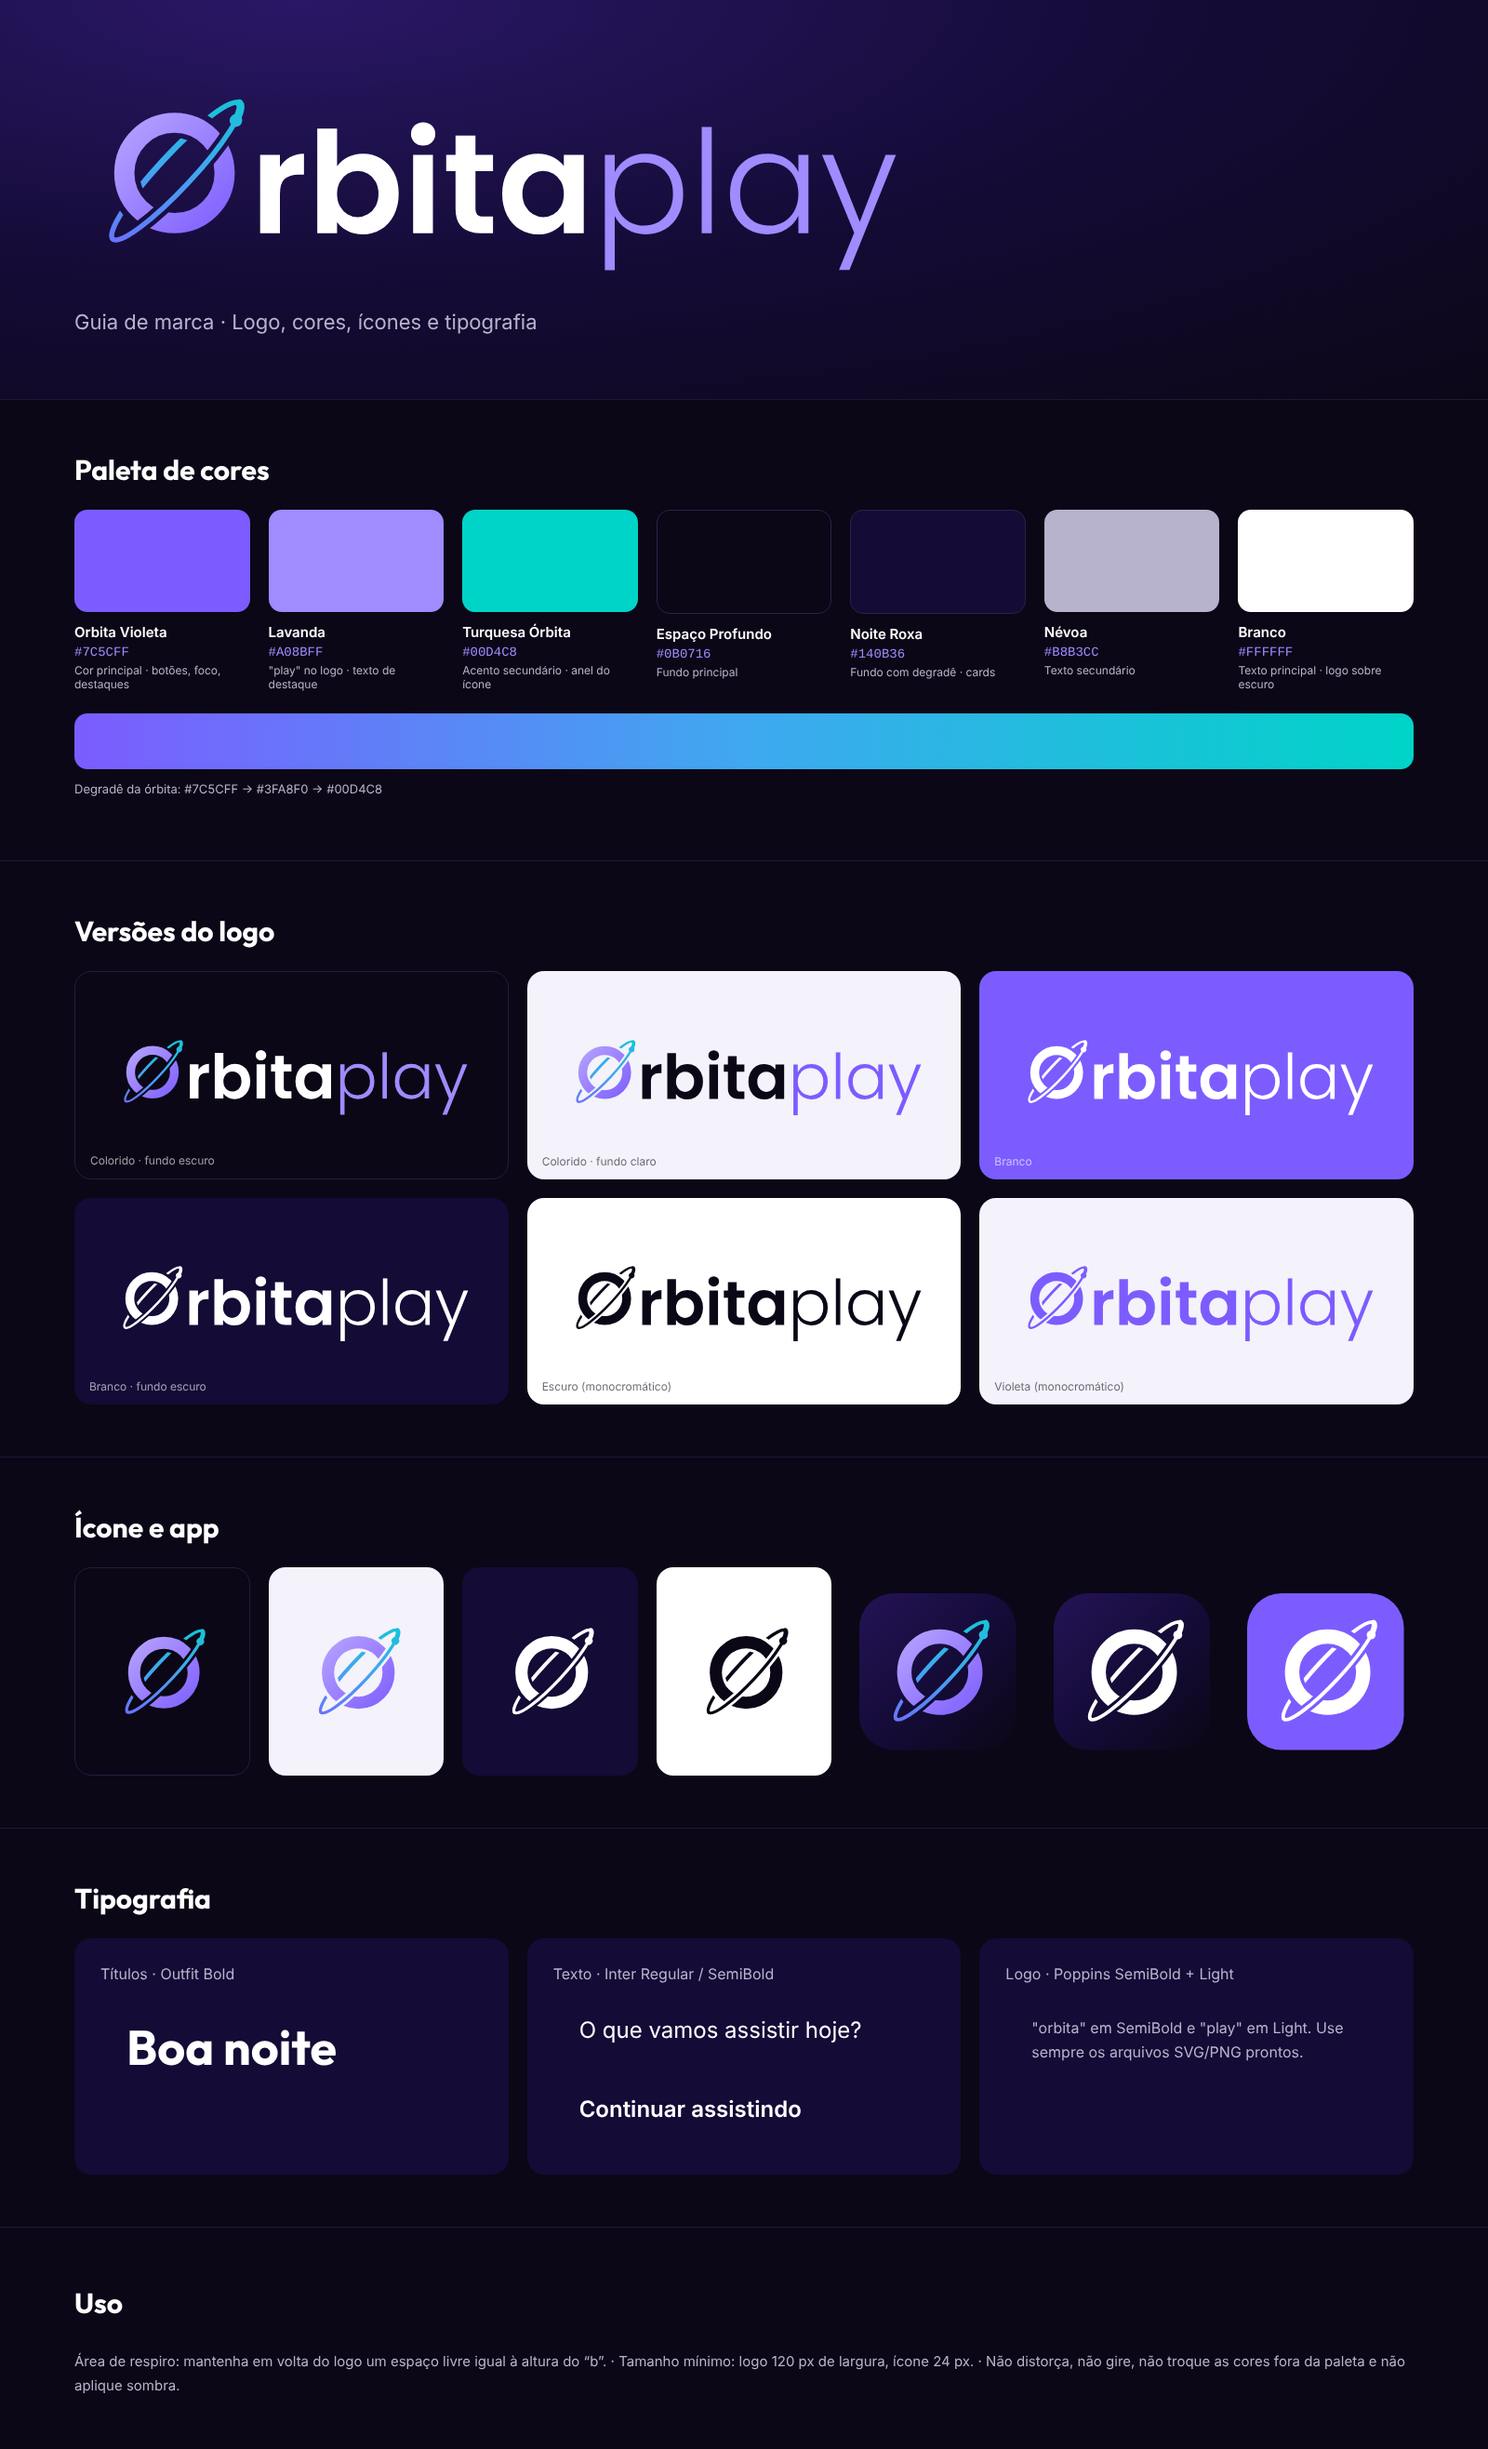
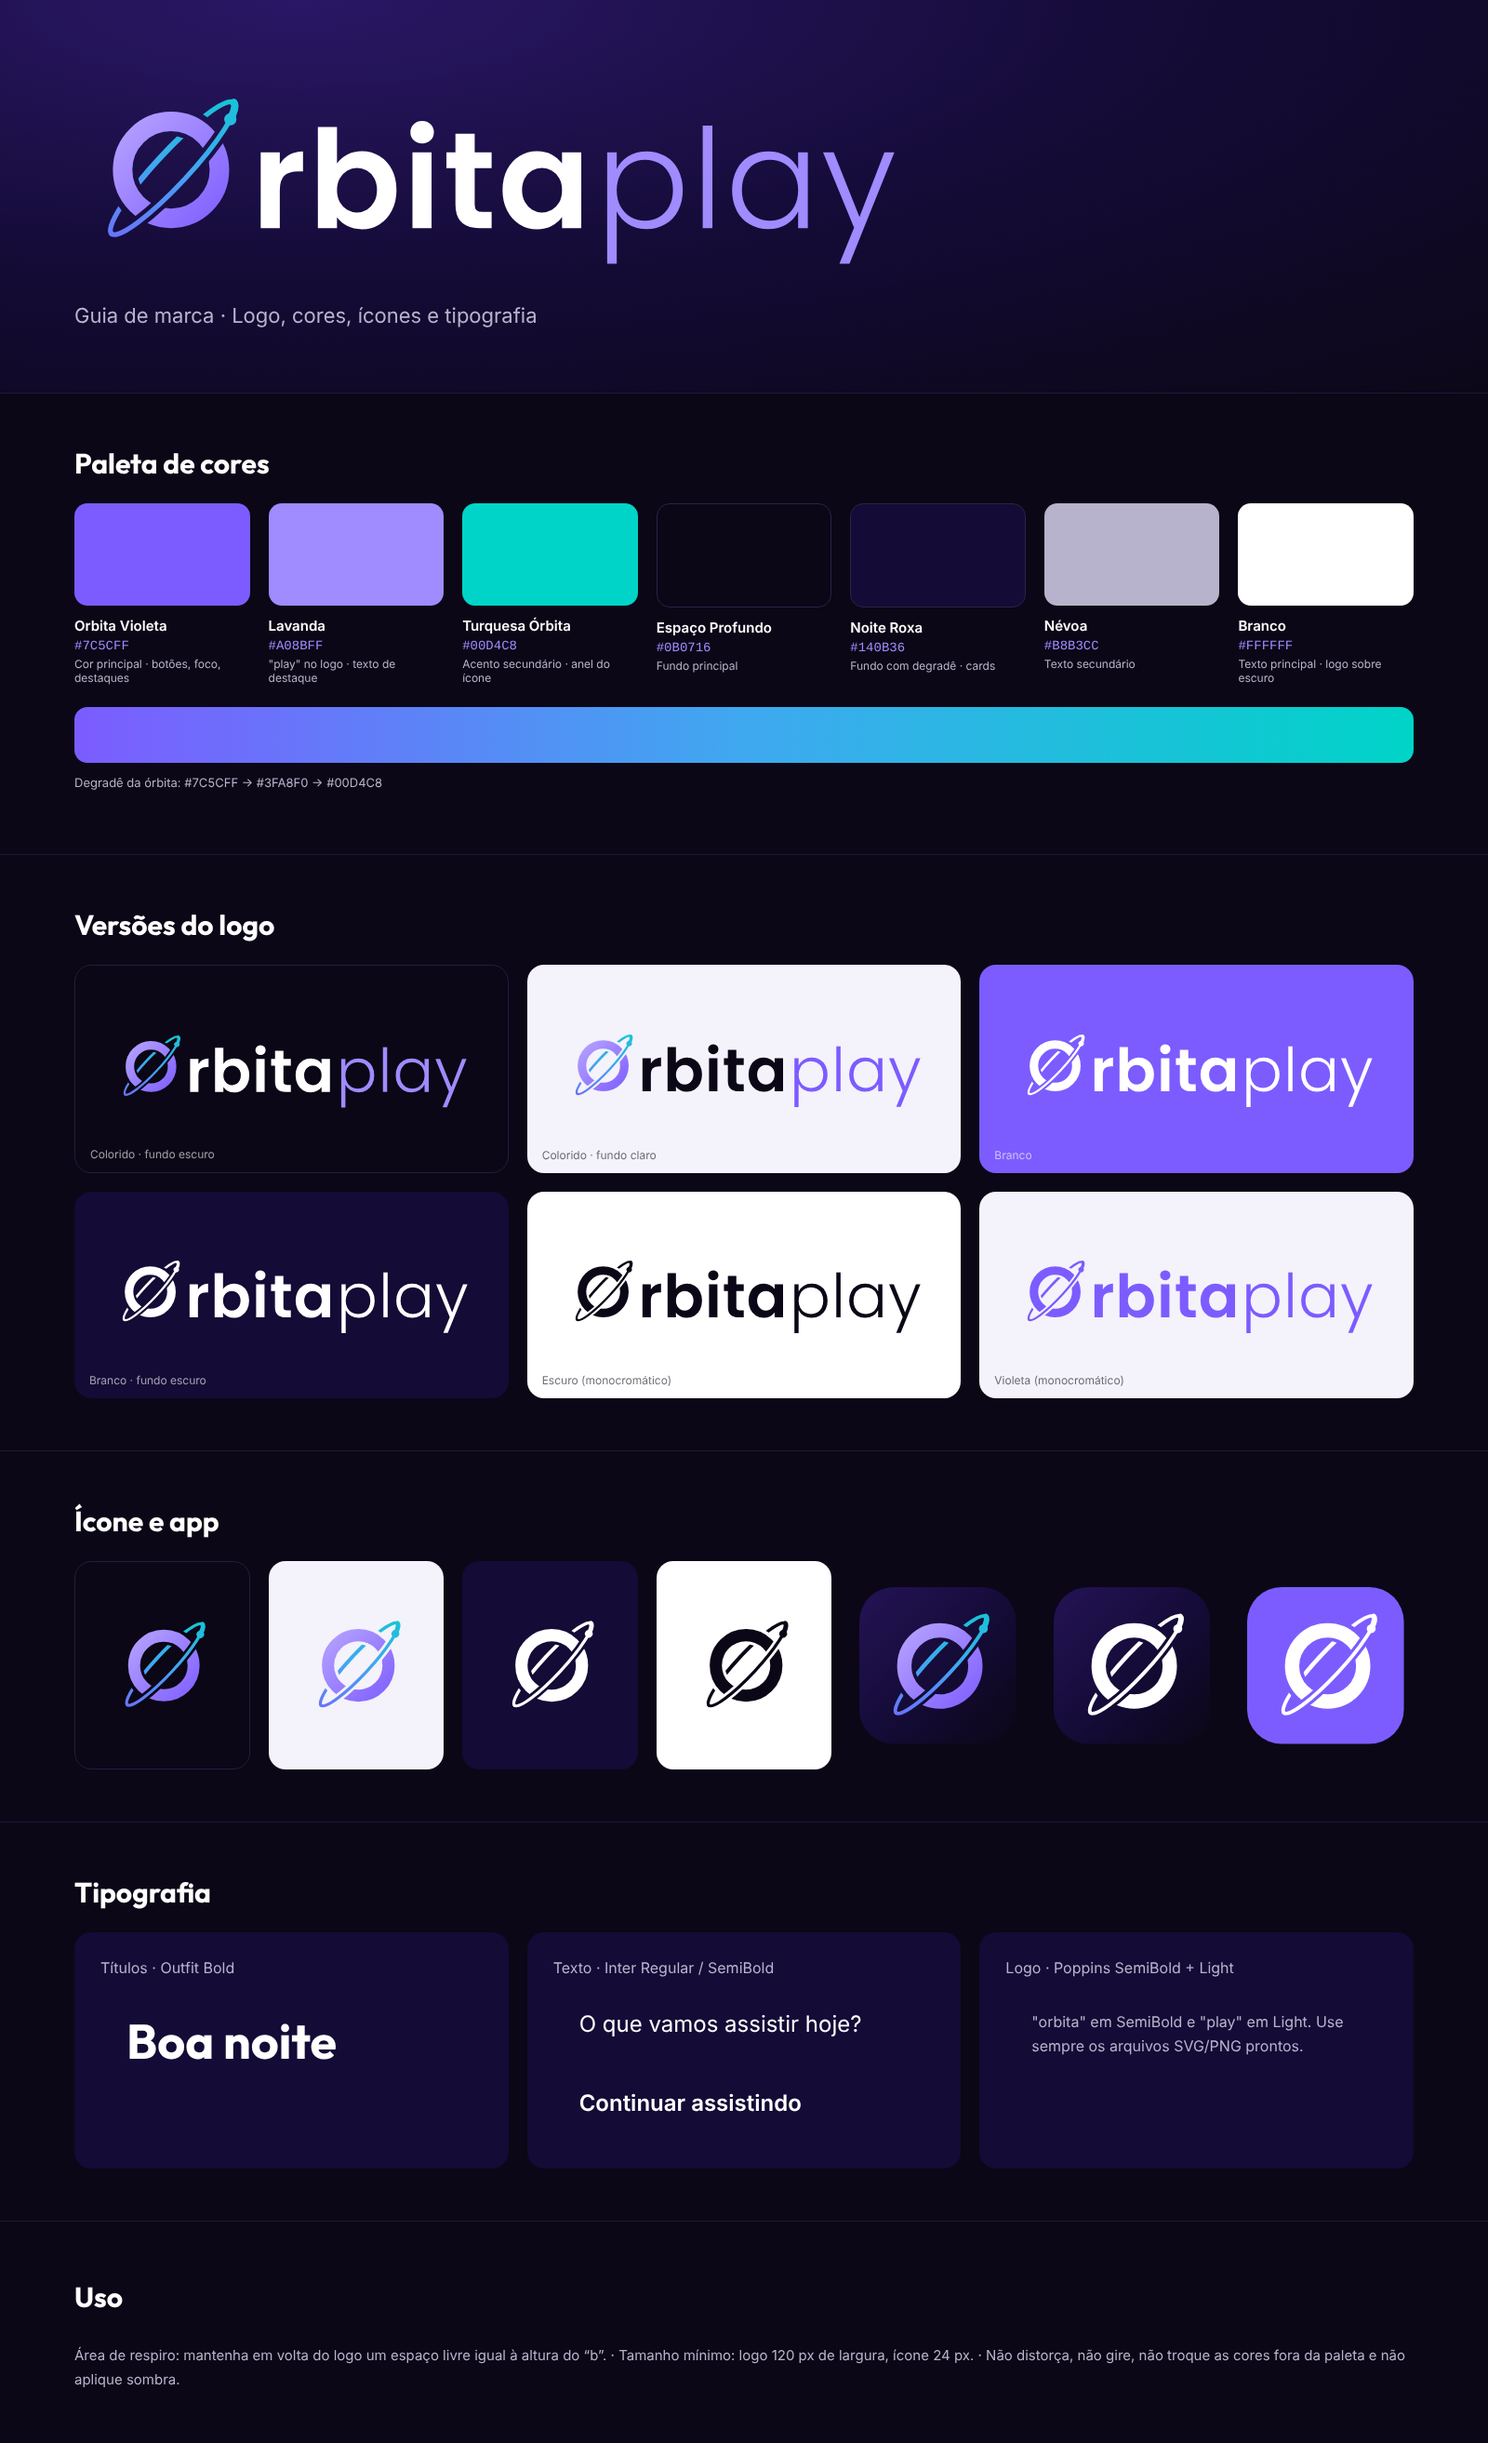
Loosen wordmark spacing and make 'play' violet in white-violet variant
Claude-Session: https://claude.ai/code/session_01X3VDEMUgQ3J3eXyFuzx6oD

diff --git a/docs/branding/source/brand.py b/docs/branding/source/brand.py
@@ -18,9 +18,10 @@ from fontTools.pens.transformPen import TransformPen
 from fontTools.pens.boundsPen import BoundsPen
 FD=os.path.join(os.path.dirname(os.path.abspath(__file__)),'fonts')
 FONT1=os.environ.get('FONT1','Poppins-SemiBold.ttf'); FONT2=os.environ.get('FONT2','Poppins-Light.ttf')
-def font_word(H, parts=(('rbita',FONT1),('play',FONT2)), track=0.0, start=1.13):
+def font_word(H, parts=(('rbita',FONT1),('play',FONT2)), track=0.015, start=1.19):
     x=H*start; letters=[]
-    for txt,fn in parts:
+    for pi,(txt,fn) in enumerate(parts):
+        if pi: x+=H*0.03
         f=TTFont(os.path.join(FD,fn)); gs=f.getGlyphSet(); cm=f.getBestCmap(); upm=f['head'].unitsPerEm
         bp=BoundsPen(gs); gs[cm[ord('x')]].draw(bp); k=H*0.65/bp.bounds[3]
         for ch in txt:
@@ -67,7 +68,7 @@ def svg(kind, scheme, bg=None, pad=0.08, square=False, radius=0.22):
        'dark':('#0B0716','#0B0716','#0B0716','#0B0716'),
        'violet':('#7C5CFF','#7C5CFF','#7C5CFF','#7C5CFF'),
        'color':('url(#go{u})','url(#gr{u})','#FFFFFF','#A08BFF'),
-       'white-violet':('#FFFFFF','#8B6CFF','#FFFFFF','#FFFFFF'),
+       'white-violet':('#FFFFFF','#8B6CFF','#FFFFFF','#8B6CFF'),
        'color-white':('url(#go{u})','url(#gr{u})','#FFFFFF','#FFFFFF'),
        'color-light':('url(#go{u})','url(#gr{u})','#0B0716','#7C5CFF')}[scheme]
     oC,ringC,t1,t2=[c.replace('{u}',u) for c in S]

diff --git a/docs/branding/README.md b/docs/branding/README.md
@@ -35,7 +35,7 @@ Fundo do ícone do app: `#241356 → #140B36 → #0B0716`
 
 - **color**: "O" em degradê lavanda/violeta, órbita violeta→turquesa, "orbita" branco e "play" lavanda (fundo escuro)
 - **color-white**: só o ícone colorido (violeta/azul), letras todas brancas (fundo escuro)
-- **white-violet**: letras e "O" brancos, só a órbita roxa `#8B6CFF` (fundo escuro)
+- **white-violet**: "orbita" e "O" brancos, órbita e "play" roxos `#8B6CFF` (fundo escuro)
 - **color-light**: igual, com "orbita" escuro e "play" violeta (fundo claro)
 - **white**: tudo branco (fundo escuro ou violeta)
 - **dark**: tudo `#0B0716` (fundo claro)
